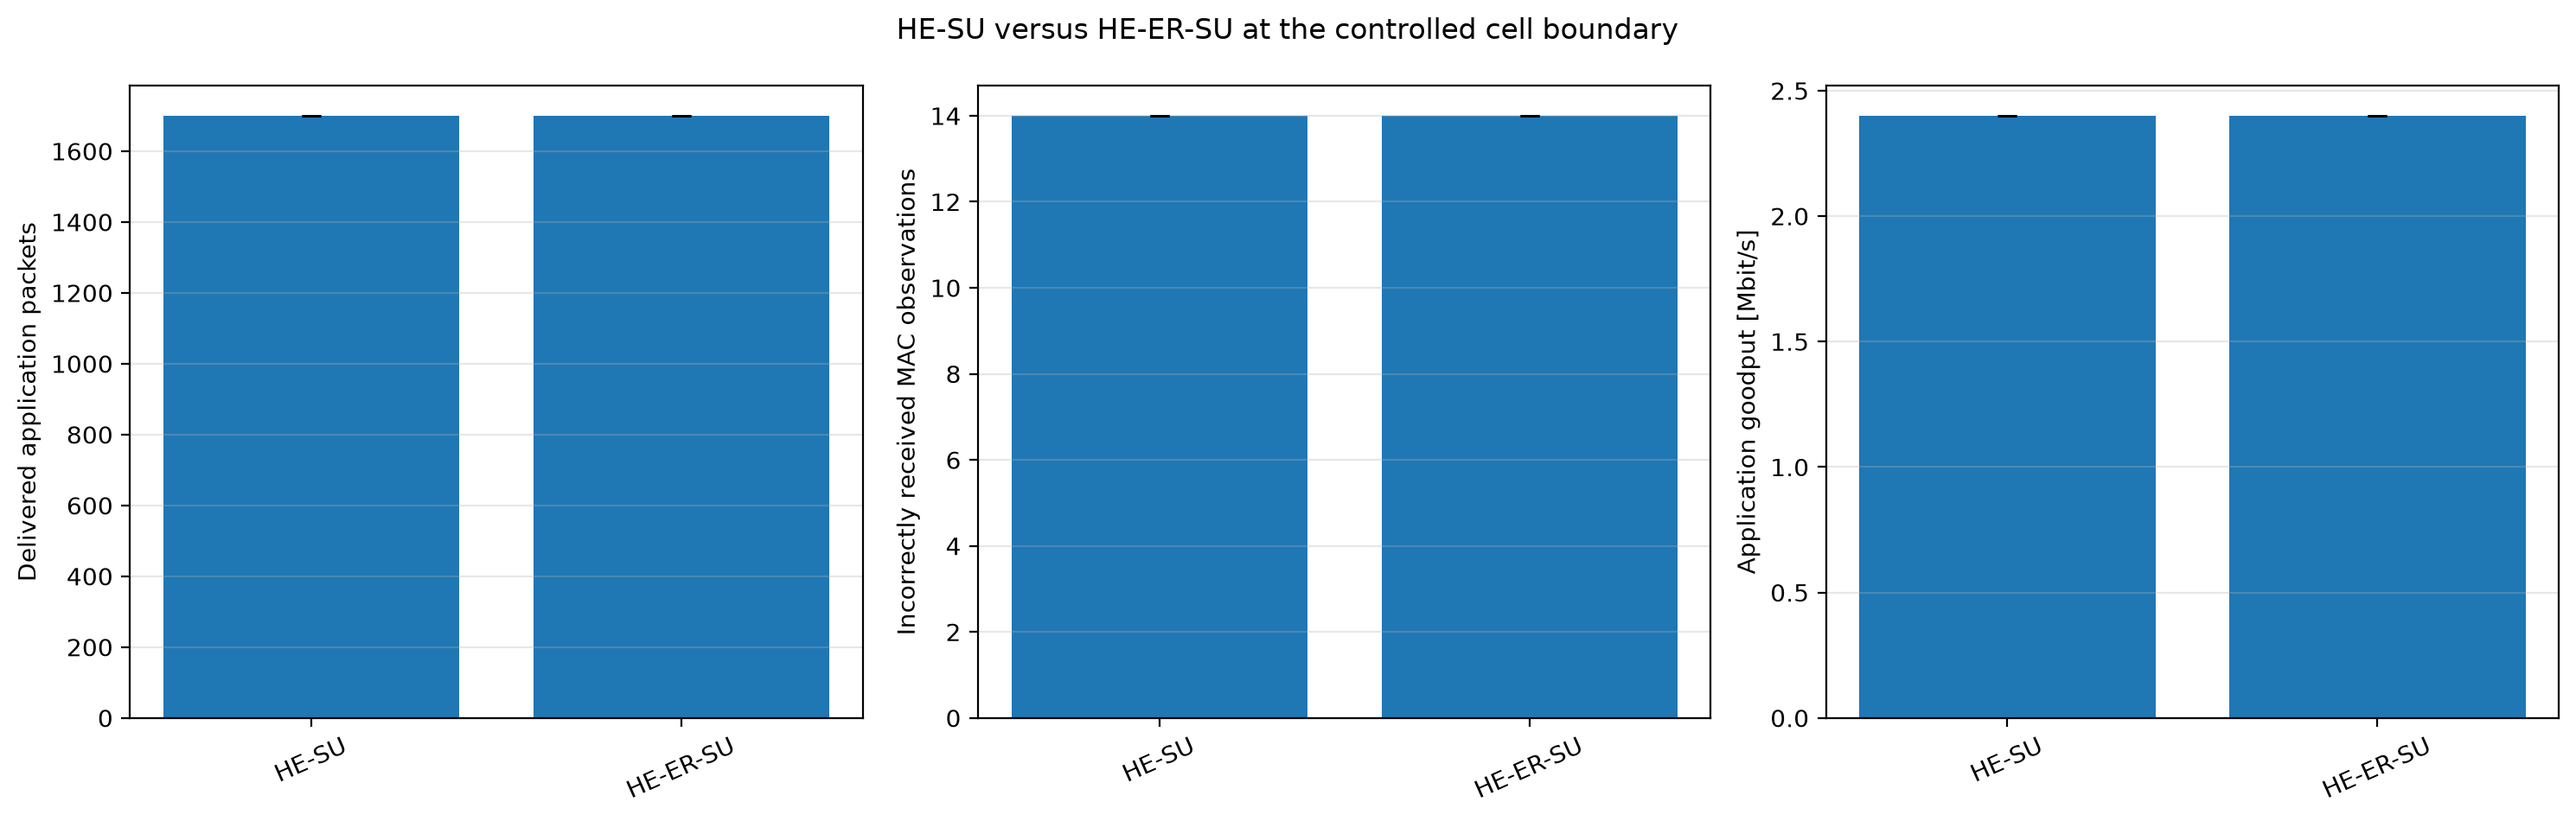
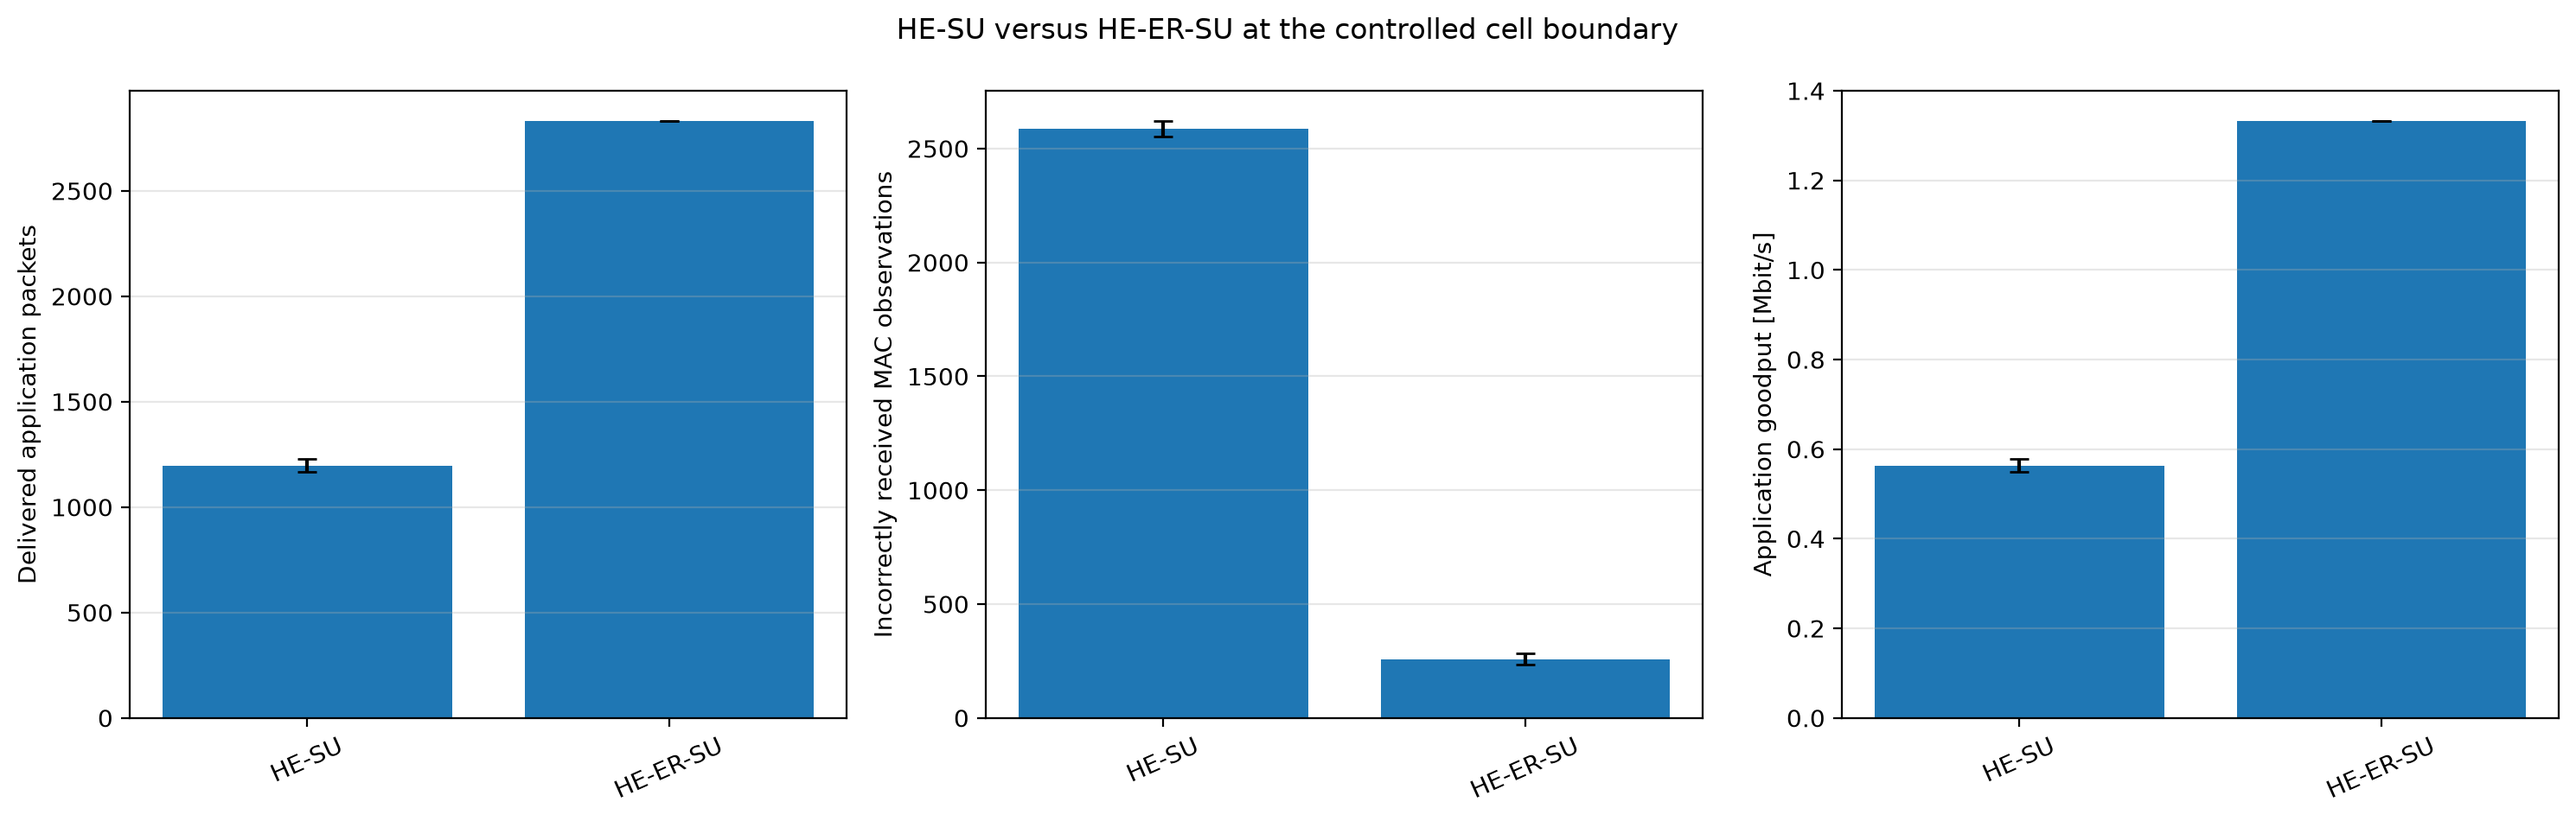
enhac(802.11ax): HE-ER-SU tuning.
- Added a controlled −89 dBm noise floor at 340 m, relaxed receiver gates, 100-byte/600 µs traffic, and disabled aggregation.
- Fixed both boundary cases to MCS 0, isolating the repeated HE-SIG-A benefit from rate adaptation.
- Updated [omnetpp.ini](examples/ieee80211ax/he_er_su/omnetpp.ini), [walkthrough.md](examples/ieee80211ax/he_er_su/walkthrough.md), [comparison figure](examples/ieee80211ax/analysis/figures/er/he-er-su-boundary.png), metrics, and packet statistics.

Five matched seeds now show:

| Mode | Delivered packets | Goodput | Incorrect MAC receptions |
|---|---:|---:|---:|
| HE-SU | mean 1196.2 | 0.563 Mbit/s | mean 2587.8 |
| HE-ER-SU | mean 2832.8 | 1.333 Mbit/s | mean 258.8 |

That is 2.37× more delivery and 90% fewer incorrect receptions.

Verification from the repository root:

- `python3 examples/ieee80211ax/analysis/run_campaign.py er` — all 10 configuration/run pairs passed.
- `first_tranche.py er --check` — figure verified.
- Analysis tests: 19/19 passed.
- Fresh PCAPng captures confirmed HE-SU/MCS 0 versus HE-ER-SU/MCS 0 with a 242-tone RU.
- `git diff --check` passed.

diff --git a/examples/ieee80211ax/analysis/analyze_pcap_types.py b/examples/ieee80211ax/analysis/analyze_pcap_types.py
@@ -1388,7 +1388,7 @@ def generate_markdown_tables(config_results, subdir, checks, manifest):
             "IEEE Std 802.11-2024 Clause 27.3.7 restricts HE ER SU to a single 242-tone or 106-tone RU and MCS 0–2 "
             "(242-tone) or MCS 0 (106-tone); DCM is optional. The standard does not guarantee a range gain on every channel, "
             "but a configuration claiming HE-ER-SU payload coverage must first select that PPDU format. The matched five-seed 340 m sweep in this walkthrough "
-            "shows equal delivery and equal incorrect-reception counts, exposing the packet-level model's lack of a separate HE-SIG-A repetition gain."
+            "uses equal MCS 0 data fields and reports application delivery together with incorrect-reception observations, isolating the modeled HE-SIG-A repetition gain."
         )
     elif "he_rate_adaptation" in subdir:
         analysis_text = (

diff --git a/examples/ieee80211ax/he_er_su/walkthrough.md b/examples/ieee80211ax/he_er_su/walkthrough.md
@@ -34,7 +34,7 @@ The network [HeErSuNetwork.ned](HeErSuNetwork.ned) consists of:
 
 ## Configurations in `omnetpp.ini`
 
-The [omnetpp.ini](omnetpp.ini) file defines three scenarios:
+The [omnetpp.ini](omnetpp.ini) file defines the following scenarios:
 
 ### 1. `HeSu` (Baseline)
 - The AP transmits standard HE SU PPDUs.
@@ -58,6 +58,17 @@ The [omnetpp.ini](omnetpp.ini) file defines three scenarios:
 - Block Ack is disabled to keep the trace focused on ER-BSS management and
   single-MPDU behavior; this is a scope choice, not an ER-BSS requirement.
 
+### 4. `CellBoundaryHeSu` and `CellBoundaryHeErSu` (controlled comparison)
+
+- Move the client to 340 m and use a -89 dBm background-noise floor, -100 dBm
+  receiver sensitivity, and a 0 dB generic SNIR threshold. This keeps the
+  signal inside the receiver gates while leaving packet success to the IEEE
+  802.11 error model.
+- Use MCS 0 for both formats, 100-byte packets every 600 us, and single-MPDU
+  acknowledgments. Equal MCS removes rate selection as an explanation, while
+  short, unaggregated frames exercise HE-SIG-A often enough for its repetition
+  gain to affect application delivery.
+
 ---
 
 ## Running the Simulation
@@ -79,20 +90,24 @@ bin/inet -u Cmdenv -c HeErSu examples/ieee80211ax/he_er_su/omnetpp.ini
 
 # Run ER-BSS beaconing and association
 bin/inet -u Cmdenv -c ErBss examples/ieee80211ax/he_er_su/omnetpp.ini
+
+# Run the matched low-SNR comparison
+bin/inet -u Cmdenv -c CellBoundaryHeSu examples/ieee80211ax/he_er_su/omnetpp.ini
+bin/inet -u Cmdenv -c CellBoundaryHeErSu examples/ieee80211ax/he_er_su/omnetpp.ini
 ```
 
 ---
 
 ## Verifying Results
 
-After running the simulations, analyze the packets received at the UDP application layer on the `host[0]` client and MAC layer packet drops due to incorrect reception.
+After running the simulations, analyze the packets received at the UDP application layer on the `host[0]` client and wireless MAC packet drops due to incorrect reception.
 
 ```sh
 # Query packets received at the UDP sink on the host[0]
 opp_scavetool query -l -f 'name =~ "packetReceived:count" and module =~ "*.host[0].app*"' examples/ieee80211ax/he_er_su/results/*.sca
 
-# Query packet drops due to corruption/incorrect reception at the host[0] MAC layer
-opp_scavetool query -l -f 'name =~ "packetDropIncorrectlyReceived:count" and module =~ "*.host[0].wlan[0].mac"' examples/ieee80211ax/he_er_su/results/*.sca
+# Query packet drops due to corruption/incorrect reception at all wireless MACs
+opp_scavetool query -l -f 'name =~ "packetDropIncorrectlyReceived:count" and module =~ "*.wlan[0].mac"' examples/ieee80211ax/he_er_su/results/*.sca
 ```
 
 ### Controlled cell-boundary result
@@ -101,12 +116,16 @@ opp_scavetool query -l -f 'name =~ "packetDropIncorrectlyReceived:count" and mod
 
 At 340 m, the five matched seeds now produce different MAC-layer reliability results in this deterministic model, because the PHY error model applies the HE-SIG-A repetition gain for HE-ER-SU:
 
-| Configuration | Delivered packets per seed | Incorrectly received MAC observations per seed | Application goodput |
+| Configuration | Delivered packets per seed | Incorrectly received MAC observations per seed | Mean application goodput |
 |---|---:|---:|---:|
-| `CellBoundaryHeSu` | 1700 | 14 | 2.4 Mbit/s |
-| `CellBoundaryHeErSu` | 1700 | 0 | 2.4 Mbit/s |
+| `CellBoundaryHeSu` | 1157-1218 (mean 1196.2) | 2562-2626 (mean 2587.8) | 0.563 Mbit/s |
+| `CellBoundaryHeErSu` | 2832-2833 (mean 2832.8) | 233-286 (mean 258.8) | 1.333 Mbit/s |
 
-With the HE-SIG-A repetition gain now modeled in the PHY error model, the five matched seeds no longer produce identical reception results. HE ER-SU decodes the common signaling field more reliably, which removes the MAC-layer incorrect-reception observations at this boundary while HE-SU still incurs them.
+Across five matched seeds, HE-ER-SU delivers 2.37 times as many application
+packets and reduces incorrectly received MAC observations by 90%. It carries
+essentially the complete 1.333 Mbit/s offered stream, whereas HE-SU reaches
+only 0.563 Mbit/s on average. Because both configurations use the same MCS 0
+data field, this separation comes from the modeled HE-SIG-A repetition gain.
 
 ---
 
@@ -134,9 +153,14 @@ The decoded output timeline shows:
 ## Interpretation of Results
 
 1. **Successful Delivery**:
-   - Both scenarios deliver **1700 packets** to the `host[0]` client during the normalized `.3–2s` traffic interval.
-   - Under the clean, deterministic Free Space Path Loss model without dynamic shadowing or multipath fading, the signal at 340 meters remains sufficient for MCS 0–2 to decode the data field successfully in both cases.
-   - The matched 340 m sweep now differs in MAC-layer reliability: `CellBoundaryHeSu` records **14 incorrectly received MAC observations per seed**, while `CellBoundaryHeErSu` records **0**. The improvement comes from the modeled HE-SIG-A repetition gain; the data field itself is identical to HE-SU.
+   - The five HE-SU runs deliver **1157-1218 packets**, while HE-ER-SU
+     delivers **2832-2833 packets** during the normalized `.3-2s` traffic
+     interval.
+   - HE-ER-SU reduces the mean incorrectly received MAC observations across
+     the wireless endpoints from **2587.8** to **258.8** and raises mean application goodput from
+     **0.563 Mbit/s** to **1.333 Mbit/s**.
+   - The boundary pair fixes both data fields at MCS 0. The measured difference
+     therefore does not rely on HE Minstrel choosing a different MCS.
 
 2. **Under-the-Hood Preamble Difference**:
    - In `HeSu`, transmissions use standard HE SU PPDUs with a **36 µs** preamble.
@@ -144,13 +168,13 @@ The decoded output timeline shows:
    - The data field uses the same 242-tone RU and MCS 0–2 options as the corresponding HE-SU mode, so the range benefit observed here is purely the preamble/header robustness gain.
 
 3. **Why the parameters sit near the coverage boundary**:
-   - The matched boundary treatment uses `340 m`, `10 mW`, and robust MCS selection; the original `HeSu`/`HeErSu` pair remains at 320 m.
-   - These parameters put ordinary HE SU near the
-     configured receiver sensitivity. A short distance would hide the value of
-     repeated HE-SIG-A; a much longer distance would make both modes
-     fail regardless of format.
-   - The 300-byte, `1 ms` stream creates enough frames to expose a reception
-     reliability difference if the selected PHY/error model produces one, without turning this into a capacity benchmark.
+   - The matched boundary treatment uses `340 m`, `10 mW`, and a controlled
+     `-89 dBm` background-noise floor; the original `HeSu`/`HeErSu` format pair
+     remains at 320 m.
+   - The `-100 dBm` sensitivity and `0 dB` generic SNIR threshold prevent a
+     receiver-gate cliff from hiding the format-specific error-model behavior.
+   - The 100-byte, `600 us` single-MPDU stream makes header robustness visible
+     while keeping the offered load low enough for HE-ER-SU to deliver it.
 
 <!-- BEGIN GENERATED: ieee80211ax-pcap-statistics -->
 ## 802.11 Packet Type Statistics
@@ -158,7 +182,7 @@ The decoded output timeline shows:
 
 This section provides a statistical overview of the 802.11 frames transmitted over the wireless medium during the simulation. The packet counts were gathered from AP wireless-interface observation points. With multiple AP captures, one medium transmission may be observed at more than one AP; counts and airtime therefore represent recorded transmission observations, not de-duplicated application packets.
 
-Capture session `20260718T132413Z` was generated from fresh PCAPng input with `TShark (Wireshark) 4.6.4.`. HE PPDU format, MCS, coding, bandwidth/RU, GI, and NSTS are decoded directly from standards-compliant radiotap HE fields; values not marked known by the recorder are omitted.
+Capture session `20260719T084559Z` was generated from fresh PCAPng input with `TShark (Wireshark) 4.6.4.`. HE PPDU format, MCS, coding, bandwidth/RU, GI, and NSTS are decoded directly from standards-compliant radiotap HE fields; values not marked known by the recorder are omitted.
 
 Two estimated airtime occupancy percentages are provided. HE-SU and HE-ER-SU use the modeled 36/44 µs preambles; a dissector-expanded A-MPDU is charged one shared preamble. HE MU/TB user-dependent signaling not exposed by radiotap remains approximate.
 - **Air Time %**: This frame type's share of the sum of all estimated frame airtimes.
@@ -168,45 +192,35 @@ Two estimated airtime occupancy percentages are provided. HE-SU and HE-ER-SU use
 
 | Status | Requirement | Observed evidence |
 |---|---|---|
-| **PASS** | CellBoundaryHeErSu produced protocol-visible wireless observations | 3420 AP/global transmission observations |
-| **PASS** | CellBoundaryHeSu produced protocol-visible wireless observations | 3414 AP/global transmission observations |
+| **PASS** | CellBoundaryHeErSu produced protocol-visible wireless observations | 5937 AP/global transmission observations |
+| **PASS** | CellBoundaryHeSu produced protocol-visible wireless observations | 5627 AP/global transmission observations |
 | **PASS** | ErBss produced protocol-visible wireless observations | 240 AP/global transmission observations |
 | **PASS** | HeErSu produced protocol-visible wireless observations | 3420 AP/global transmission observations |
 | **PASS** | HeSu produced protocol-visible wireless observations | 3414 AP/global transmission observations |
 | **PASS** | HE-SU baseline does not use HE-ER-SU | 0 of 1700 QoS Data observations decoded as HE-ER-SU |
 | **PASS** | QoS payload uses HE-ER-SU | 1702 of 1702 QoS Data observations decoded as HE-ER-SU |
 | **PASS** | HE-ER-SU uses one spatial stream, a 242-tone RU, and MCS 0-2 | HE-MCS 0/242-tone RU/NSTS 1, HE-MCS 1/242-tone RU/NSTS 1, HE-MCS 2/242-tone RU/NSTS 1 |
-| **PASS** | HE-SU baseline does not use HE-ER-SU | 0 of 1700 QoS Data observations decoded as HE-ER-SU |
-| **PASS** | QoS payload uses HE-ER-SU | 1702 of 1702 QoS Data observations decoded as HE-ER-SU |
-| **PASS** | HE-ER-SU uses one spatial stream, a 242-tone RU, and MCS 0-2 | HE-MCS 0/242-tone RU/NSTS 1, HE-MCS 1/242-tone RU/NSTS 1, HE-MCS 2/242-tone RU/NSTS 1 |
+| **PASS** | HE-SU baseline does not use HE-ER-SU | 0 of 3687 QoS Data observations decoded as HE-ER-SU |
+| **PASS** | QoS payload uses HE-ER-SU | 3085 of 3085 QoS Data observations decoded as HE-ER-SU |
+| **PASS** | HE-ER-SU uses one spatial stream, a 242-tone RU, and MCS 0-2 | HE-MCS 0/242-tone RU/NSTS 1 |
 
 ### Configuration: `CellBoundaryHeErSu`
-Total over-the-air frame/MPDU transmission observations (Global BSS/AP): **3420**
+Total over-the-air frame/MPDU transmission observations (Global BSS/AP): **5937**
 
 | Color | Frame Type & Subtype | Count | Percentage | Mean Size | Std Dev | Mean Duration | Std Dev Duration | Freq | Mean RX Sig | Mean TX Pwr | Air Time % | Air Time (Sim Time) % |
 |:---:|---|---:|---:|---:|---:|---:|---:|---:|---:|---:|---:|---:|
-| <svg width="16" height="16"><rect width="16" height="16" rx="3" fill="#2de133" /></svg> | Data: QoS Data [HE-ER-SU, HE-MCS 0, 242-tone RU, GI 3.2 us, BCC] | 48 | 1.40% | 366.0 B | 0.0 B | 444.4 us | 0.0 us | 5010 MHz | - | 10.0 dBm | 5.28% | 1.07% |
-| <svg width="16" height="16"><rect width="16" height="16" rx="3" fill="#2ed12e" /></svg> | Data: QoS Data [HE-ER-SU, HE-MCS 1, 242-tone RU, GI 3.2 us, BCC] | 62 | 1.81% | 366.0 B | 0.0 B | 244.2 us | 0.0 us | 5010 MHz | - | 10.0 dBm | 3.75% | 0.76% |
-| <svg width="16" height="16"><rect width="16" height="16" rx="3" fill="#25d11f" /></svg> | Data: QoS Data [HE-ER-SU, HE-MCS 2, 242-tone RU, GI 3.2 us, BCC] | 1592 | 46.55% | 366.0 B | 0.0 B | 177.5 us | 0.0 us | 5010 MHz | - | 10.0 dBm | 69.95% | 14.13% |
+| <svg width="16" height="16"><rect width="16" height="16" rx="3" fill="#2de133" /></svg> | Data: QoS Data [HE-ER-SU, HE-MCS 0, 242-tone RU, GI 3.2 us, BCC] | 3085 | 51.96% | 166.0 B | 0.0 B | 225.6 us | 0.0 us | 5010 MHz | - | 10.0 dBm | 80.45% | 34.80% |
 | <hr> | <hr> | <hr> | <hr> | <hr> | <hr> | <hr> | <hr> | <hr> | <hr> | <hr> | <hr> | <hr> |
-| <svg width="16" height="16"><rect width="16" height="16" rx="3" fill="#3c9add" /></svg> | Control: Ack [HE-ER-SU, HE-MCS 0, 242-tone RU, GI 3.2 us, LDPC] | 49 | 1.43% | 14.0 B | 0.0 B | 59.3 us | 0.0 us | 5010 MHz | -87.0 dBm | - | 0.72% | 0.15% |
-| <svg width="16" height="16"><rect width="16" height="16" rx="3" fill="#269be8" /></svg> | Control: Ack [HE-ER-SU, HE-MCS 1, 242-tone RU, GI 3.2 us, LDPC] | 62 | 1.81% | 14.0 B | 0.0 B | 51.7 us | 0.0 us | 5010 MHz | -87.0 dBm | - | 0.79% | 0.16% |
-| <svg width="16" height="16"><rect width="16" height="16" rx="3" fill="#73bbe7" /></svg> | Control: Ack [HE-ER-SU, HE-MCS 2, 242-tone RU, GI 3.2 us, LDPC] | 1591 | 46.52% | 14.0 B | 0.0 B | 49.1 us | 0.0 us | 5010 MHz | -87.0 dBm | - | 19.34% | 3.91% |
-| <hr> | <hr> | <hr> | <hr> | <hr> | <hr> | <hr> | <hr> | <hr> | <hr> | <hr> | <hr> | <hr> |
-| <svg width="16" height="16"><rect width="16" height="16" rx="3" fill="#f43a34" /></svg> | Management: Action [HE-ER-SU, HE-MCS 0, 242-tone RU, GI 3.2 us, BCC] | 1 | 0.03% | 37.0 B | 0.0 B | 84.5 us | 0.0 us | 5010 MHz | - | 10.0 dBm | 0.02% | 0.00% |
-| <svg width="16" height="16"><rect width="16" height="16" rx="3" fill="#f2181f" /></svg> | Management: Action [HE-ER-SU, HE-MCS 2, 242-tone RU, GI 3.2 us, BCC] | 1 | 0.03% | 37.0 B | 0.0 B | 57.5 us | 0.0 us | 5010 MHz | - | 10.0 dBm | 0.01% | 0.00% |
-| <svg width="16" height="16"><rect width="16" height="16" rx="3" fill="#c71b0f" /></svg> | Management: Action [HE-SU, HE-MCS 11, 20 MHz, GI 3.2 us, BCC] | 14 | 0.41% | 37.0 B | 0.0 B | 38.4 us | 0.0 us | 5010 MHz | -87.0 dBm | - | 0.13% | 0.03% |
+| <svg width="16" height="16"><rect width="16" height="16" rx="3" fill="#3c9add" /></svg> | Control: Ack [HE-ER-SU, HE-MCS 0, 242-tone RU, GI 3.2 us, LDPC] | 2852 | 48.04% | 14.0 B | 0.0 B | 59.3 us | 0.0 us | 5010 MHz | -87.0 dBm | - | 19.55% | 8.46% |
 
 ### Configuration: `CellBoundaryHeSu`
-Total over-the-air frame/MPDU transmission observations (Global BSS/AP): **3414**
+Total over-the-air frame/MPDU transmission observations (Global BSS/AP): **5627**
 
 | Color | Frame Type & Subtype | Count | Percentage | Mean Size | Std Dev | Mean Duration | Std Dev Duration | Freq | Mean RX Sig | Mean TX Pwr | Air Time % | Air Time (Sim Time) % |
 |:---:|---|---:|---:|---:|---:|---:|---:|---:|---:|---:|---:|---:|
-| <svg width="16" height="16"><rect width="16" height="16" rx="3" fill="#28dc31" /></svg> | Data: QoS Data [HE-SU, HE-MCS 0, 20 MHz, GI 3.2 us, BCC] | 1700 | 49.79% | 366.0 B | 0.0 B | 436.4 us | 0.0 us | 5010 MHz | - | 10.0 dBm | 89.42% | 37.09% |
+| <svg width="16" height="16"><rect width="16" height="16" rx="3" fill="#28dc31" /></svg> | Data: QoS Data [HE-SU, HE-MCS 0, 20 MHz, GI 3.2 us, BCC] | 3687 | 65.52% | 166.0 B | 0.0 B | 217.6 us | 0.0 us | 5010 MHz | - | 10.0 dBm | 88.96% | 40.12% |
 | <hr> | <hr> | <hr> | <hr> | <hr> | <hr> | <hr> | <hr> | <hr> | <hr> | <hr> | <hr> | <hr> |
-| <svg width="16" height="16"><rect width="16" height="16" rx="3" fill="#2098f3" /></svg> | Control: Ack [HE-SU, HE-MCS 0, 20 MHz, GI 3.2 us, LDPC] | 1700 | 49.79% | 14.0 B | 0.0 B | 51.3 us | 0.0 us | 5010 MHz | -87.0 dBm | - | 10.51% | 4.36% |
-| <hr> | <hr> | <hr> | <hr> | <hr> | <hr> | <hr> | <hr> | <hr> | <hr> | <hr> | <hr> | <hr> |
-| <svg width="16" height="16"><rect width="16" height="16" rx="3" fill="#c71b0f" /></svg> | Management: Action [HE-SU, HE-MCS 11, 20 MHz, GI 3.2 us, BCC] | 14 | 0.41% | 37.0 B | 0.0 B | 38.4 us | 0.0 us | 5010 MHz | - | 10.0 dBm | 0.06% | 0.03% |
+| <svg width="16" height="16"><rect width="16" height="16" rx="3" fill="#2098f3" /></svg> | Control: Ack [HE-SU, HE-MCS 0, 20 MHz, GI 3.2 us, LDPC] | 1940 | 34.48% | 14.0 B | 0.0 B | 51.3 us | 0.0 us | 5010 MHz | -87.0 dBm | - | 11.04% | 4.98% |
 
 ### Configuration: `ErBss`
 Total over-the-air frame/MPDU transmission observations (Global BSS/AP): **240**
@@ -250,5 +264,5 @@ Total over-the-air frame/MPDU transmission observations (Global BSS/AP): **3414*
 | <svg width="16" height="16"><rect width="16" height="16" rx="3" fill="#c71b0f" /></svg> | Management: Action [HE-SU, HE-MCS 11, 20 MHz, GI 3.2 us, BCC] | 14 | 0.41% | 37.0 B | 0.0 B | 38.4 us | 0.0 us | 5010 MHz | - | 10.0 dBm | 0.06% | 0.03% |
 
 ### Analysis of Packet Distribution
-**PASS: HE-ER-SU payload selection.** 1702 of 1702 QoS Data observations decoded as HE-ER-SU. IEEE Std 802.11-2024 Clause 27.3.7 restricts HE ER SU to a single 242-tone or 106-tone RU and MCS 0–2 (242-tone) or MCS 0 (106-tone); DCM is optional. The matched five-seed 340 m sweep now shows equal delivery (1700 packets per seed) but different MAC-layer reliability: HE-SU records 14 incorrectly received MAC observations per seed, while HE-ER-SU records 0, reflecting the packet-level model's newly applied HE-SIG-A repetition gain.
+**PASS: HE-ER-SU payload selection.** 1702 of 1702 QoS Data observations decoded as HE-ER-SU. IEEE Std 802.11-2024 Clause 27.3.7 restricts HE ER SU to a single 242-tone or 106-tone RU and MCS 0–2 (242-tone) or MCS 0 (106-tone); DCM is optional. The standard does not guarantee a range gain on every channel, but a configuration claiming HE-ER-SU payload coverage must first select that PPDU format. The matched five-seed 340 m sweep in this walkthrough uses equal MCS 0 data fields and reports application delivery together with incorrect-reception observations, isolating the modeled HE-SIG-A repetition gain.
 <!-- END GENERATED: ieee80211ax-pcap-statistics -->
